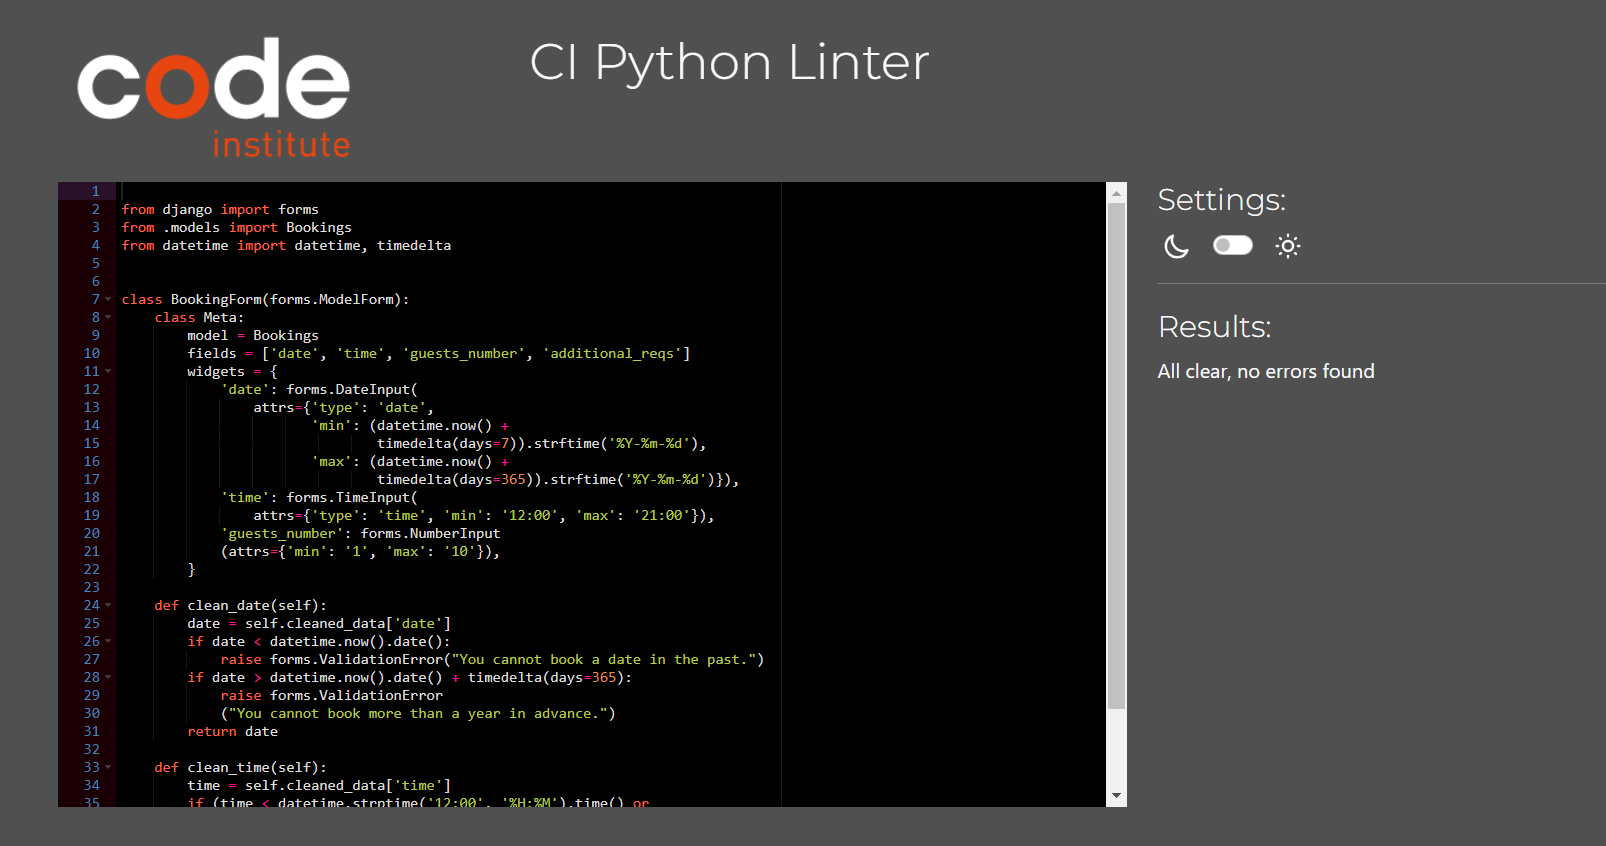
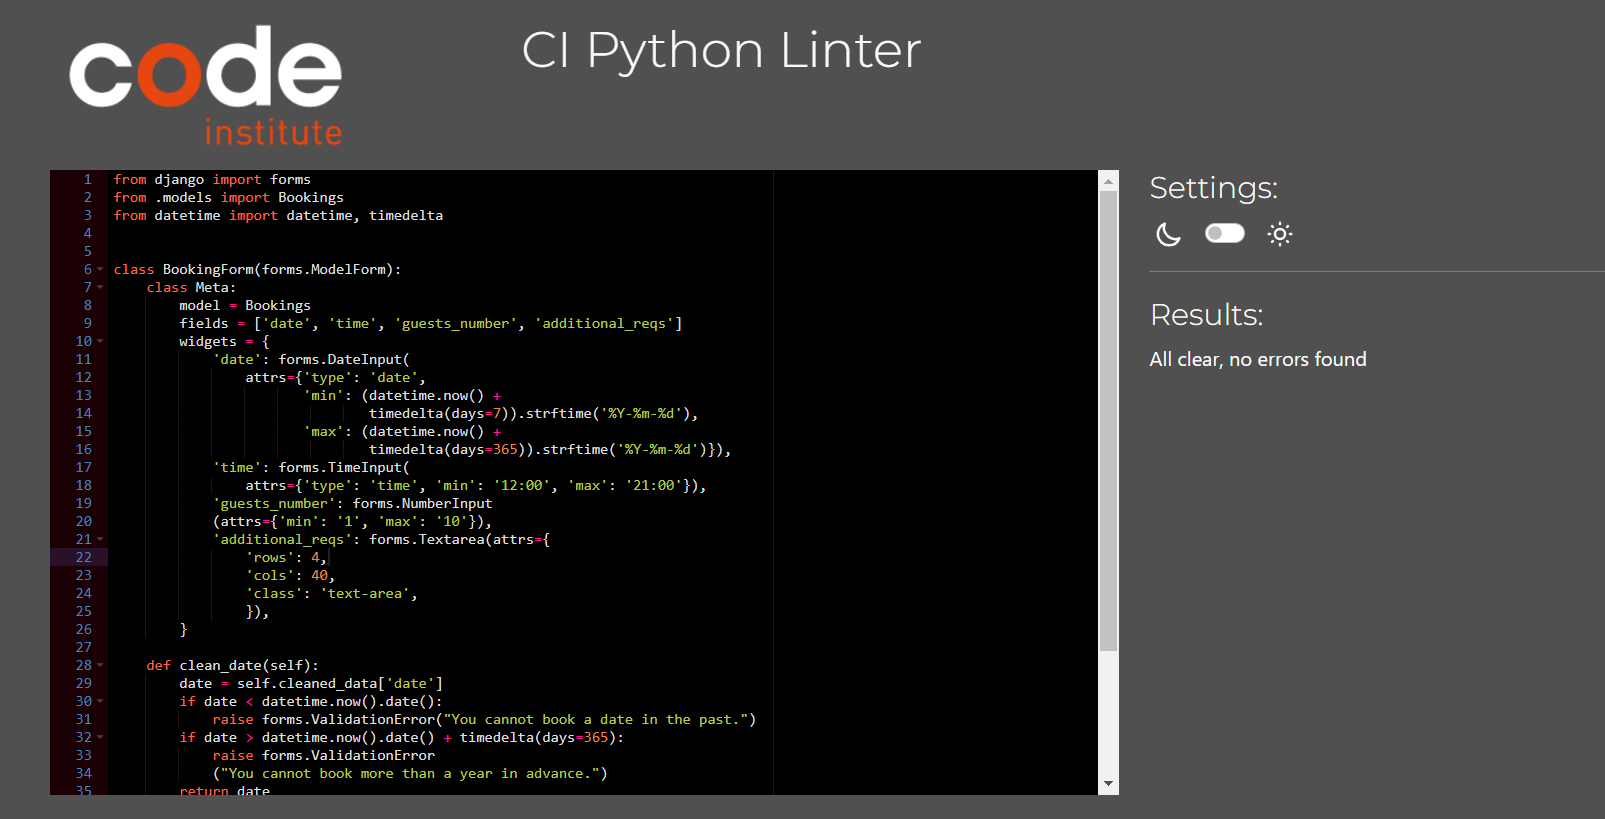
adjusted form text-area limits, updated pep8 ss

Changed region(s): [[0.0312, 0.0305, 0.8723, 0.9768], [0.3115, 0.0305, 0.5919, 0.0916]]

diff --git a/static/css/style.css b/static/css/style.css
@@ -107,6 +107,14 @@ h1 {
     margin: 0 auto;
 }
 
+.text-area {
+    max-width: 100%;
+    max-height: 200px; 
+    resize: both;
+    min-width: 100%;
+    min-height: 100px;
+}
+
 #booking-details {
     display: flex;
     flex-wrap: wrap;

diff --git a/bookings/forms.py b/bookings/forms.py
@@ -18,6 +18,11 @@ class BookingForm(forms.ModelForm):
                 attrs={'type': 'time', 'min': '12:00', 'max': '21:00'}),
             'guests_number': forms.NumberInput
             (attrs={'min': '1', 'max': '10'}),
+            'additional_reqs': forms.Textarea(attrs={
+                'rows': 4, 
+                'cols': 40,
+                'class': 'text-area',
+                }),
         }
 
     def clean_date(self):
